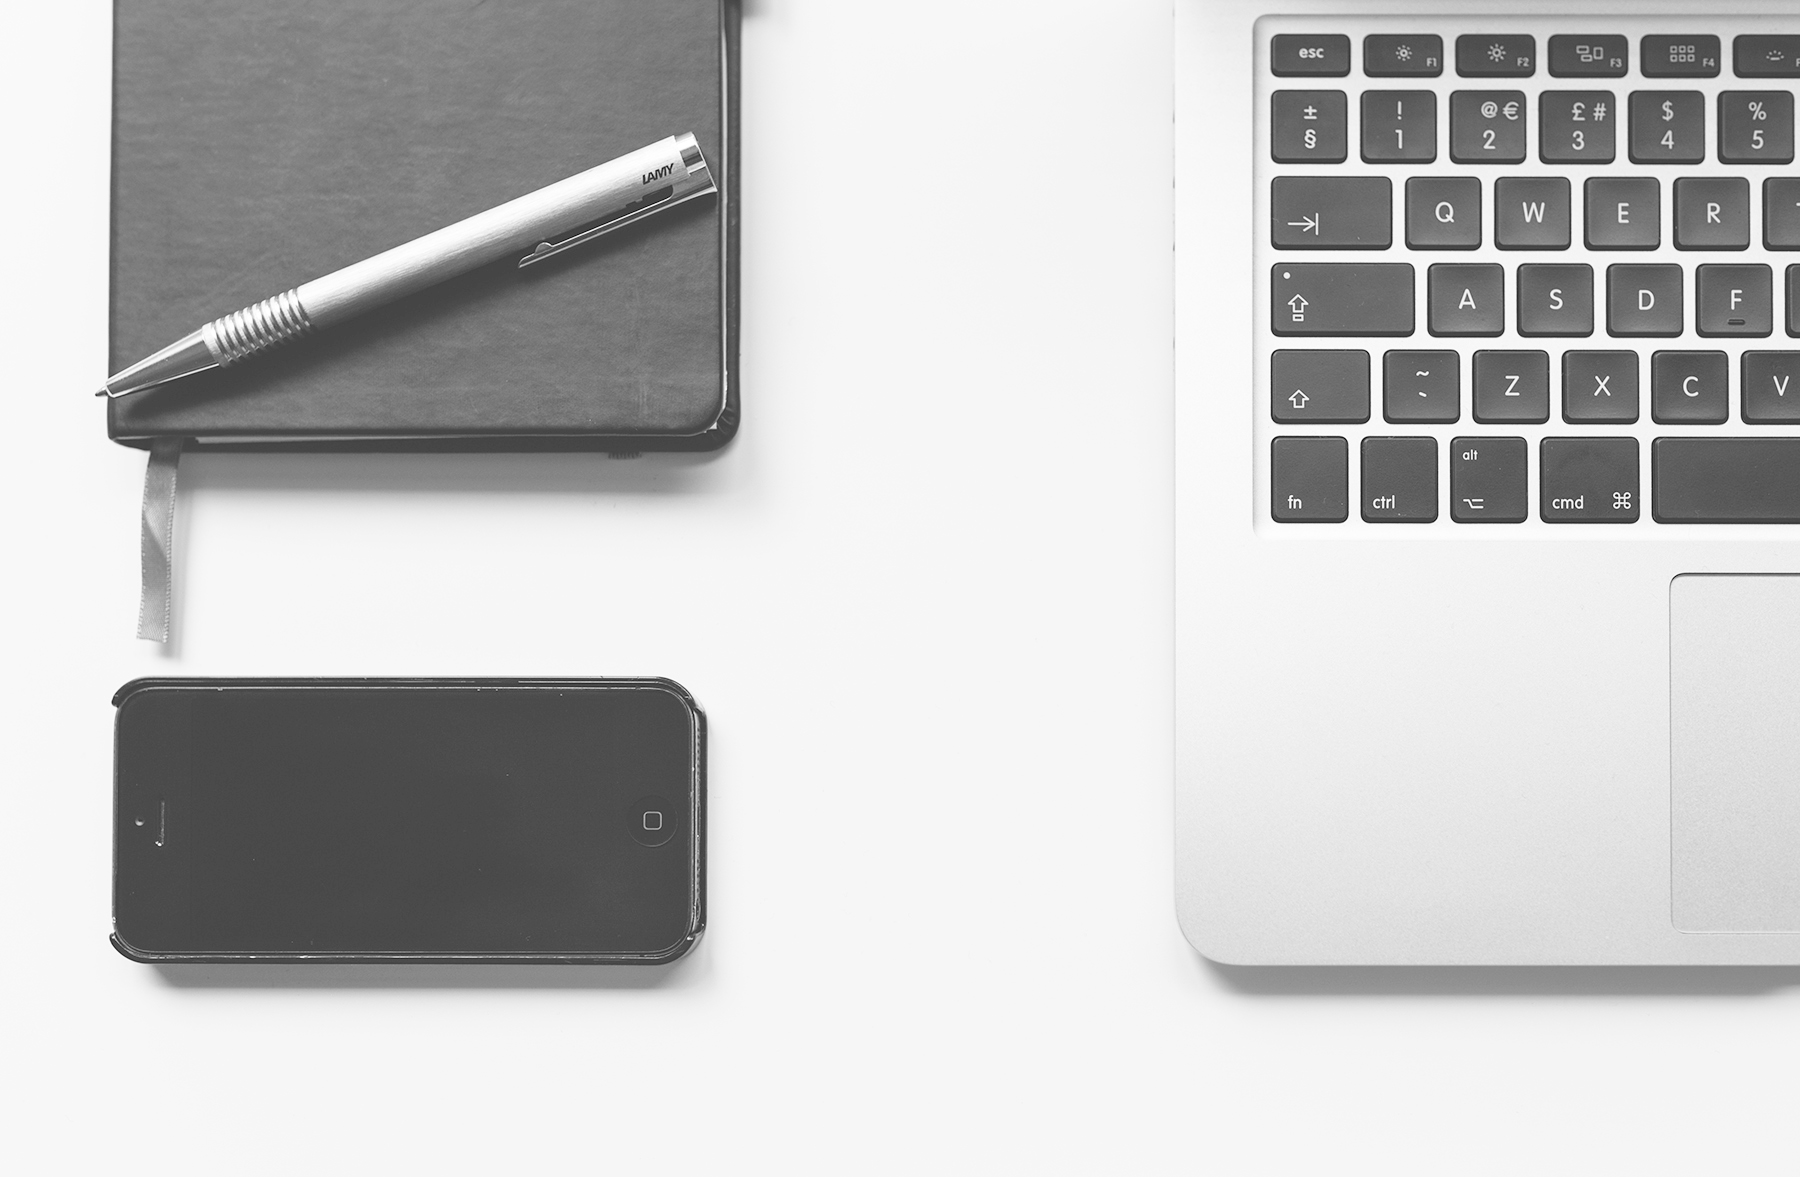
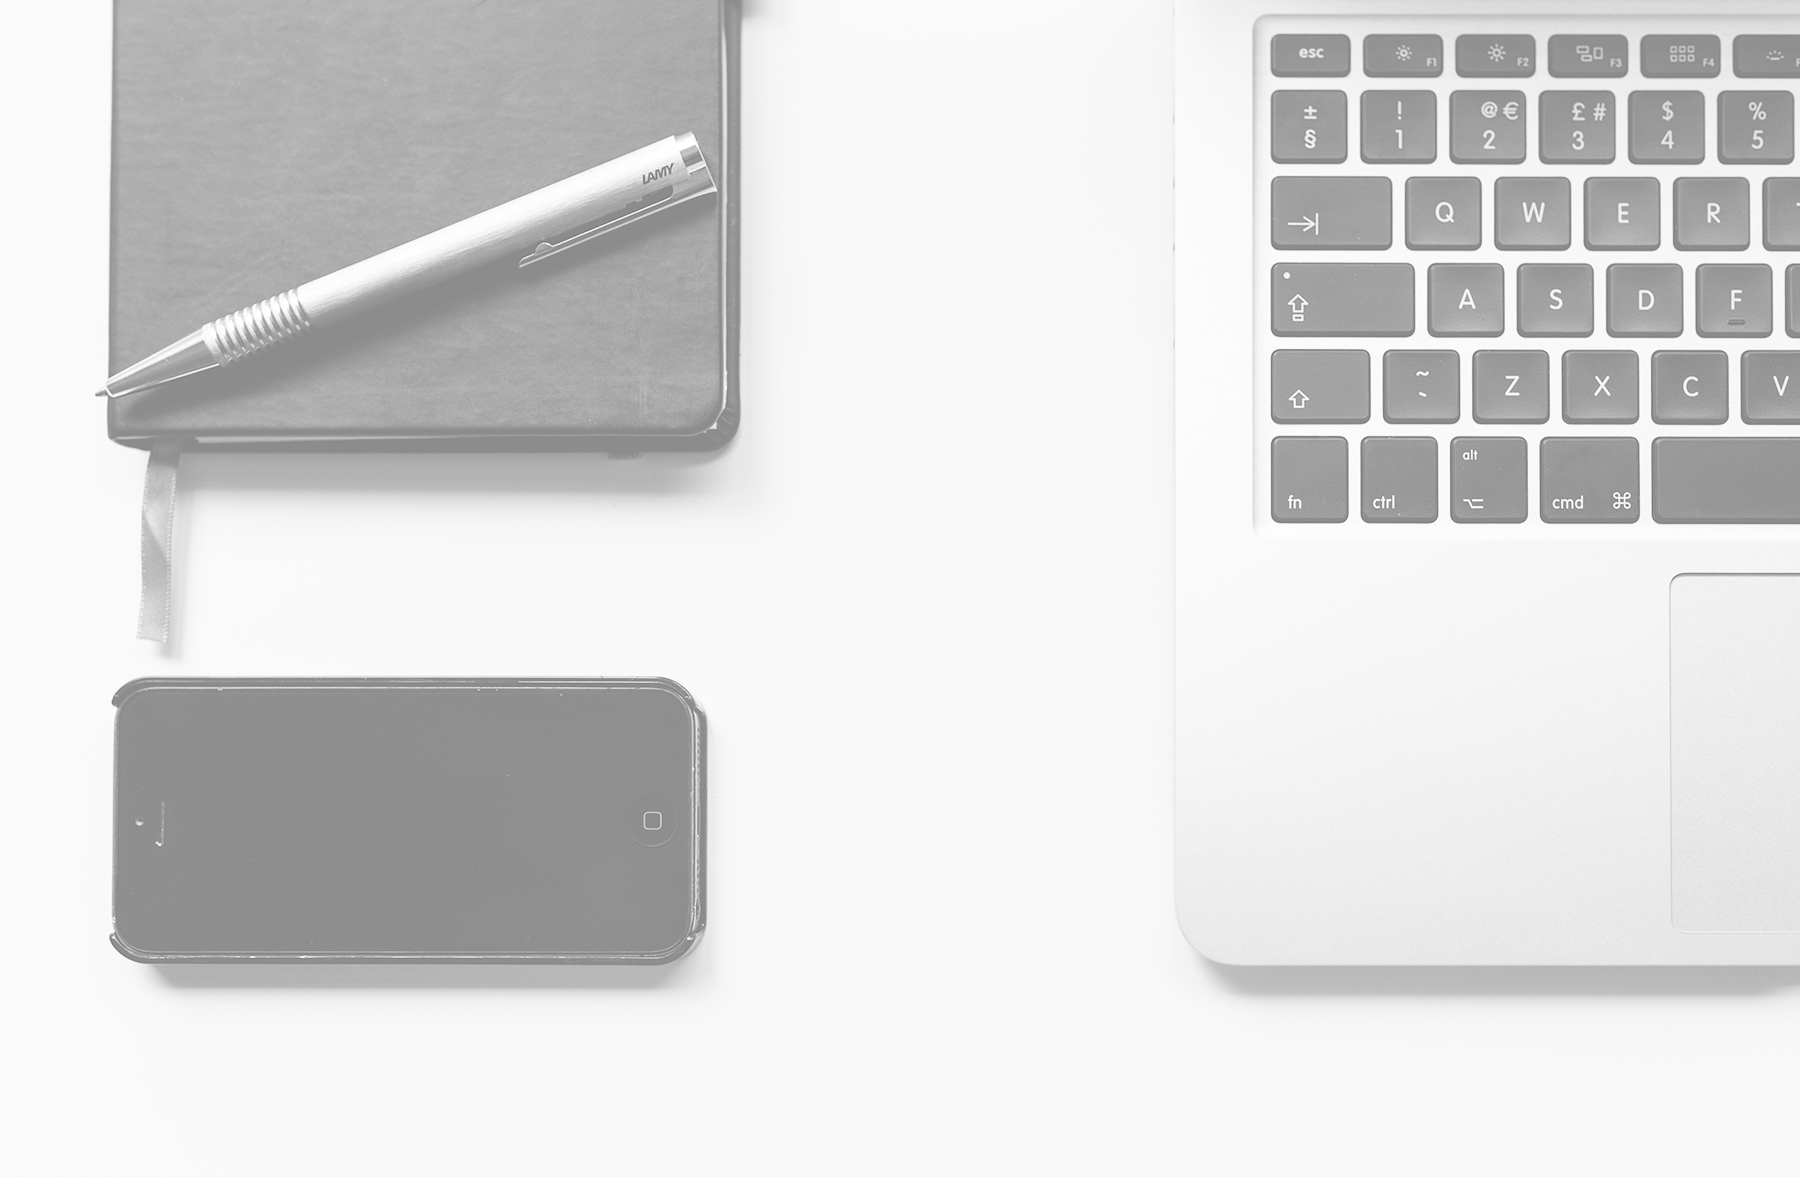
changed feature image opacity

diff --git a/index.html b/index.html
@@ -118,7 +118,7 @@
 
 	<!-- Contact Section -->
 	<div class="container-fluid" id="contact-section">
-		<div class="col-md-10 col-md-offset-1">
+		<div class="col-md-10">
 			<div id="contact-form">
 			<form action="https://formspree.io/travis_falls@mac.com" target="_blank" method="POST">
 				<legend>Contact Information</legend>
